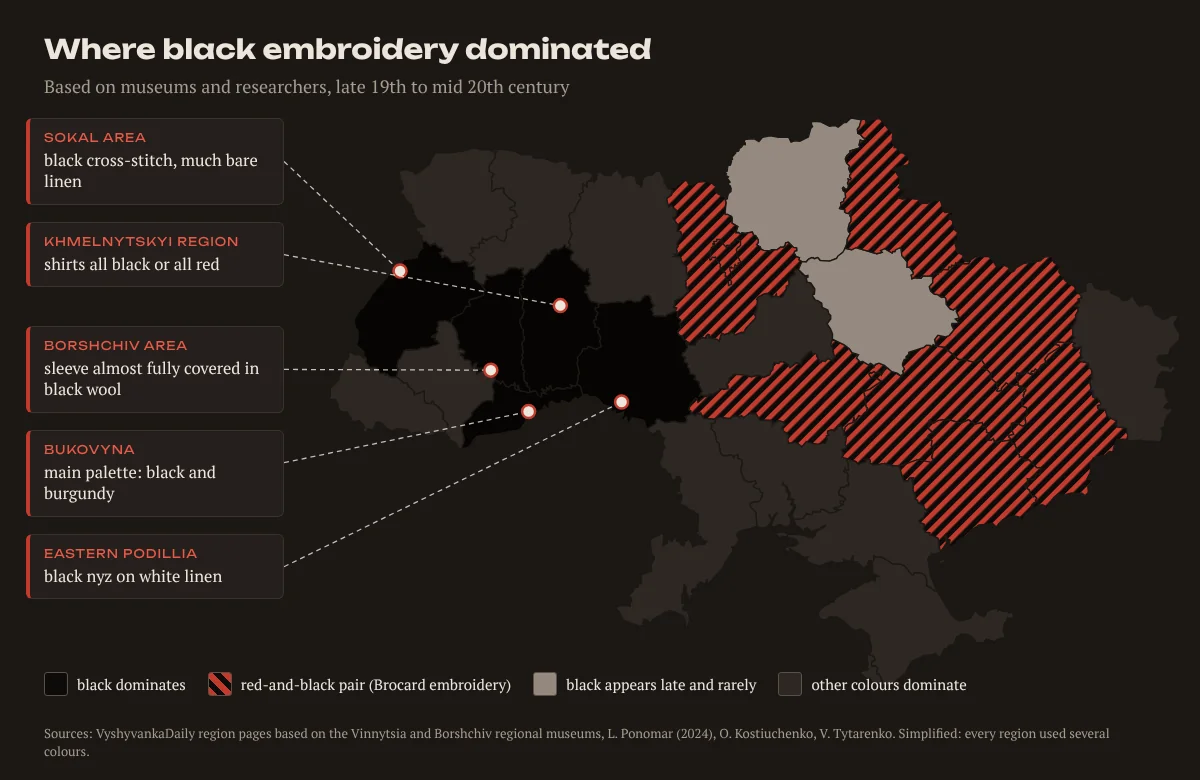
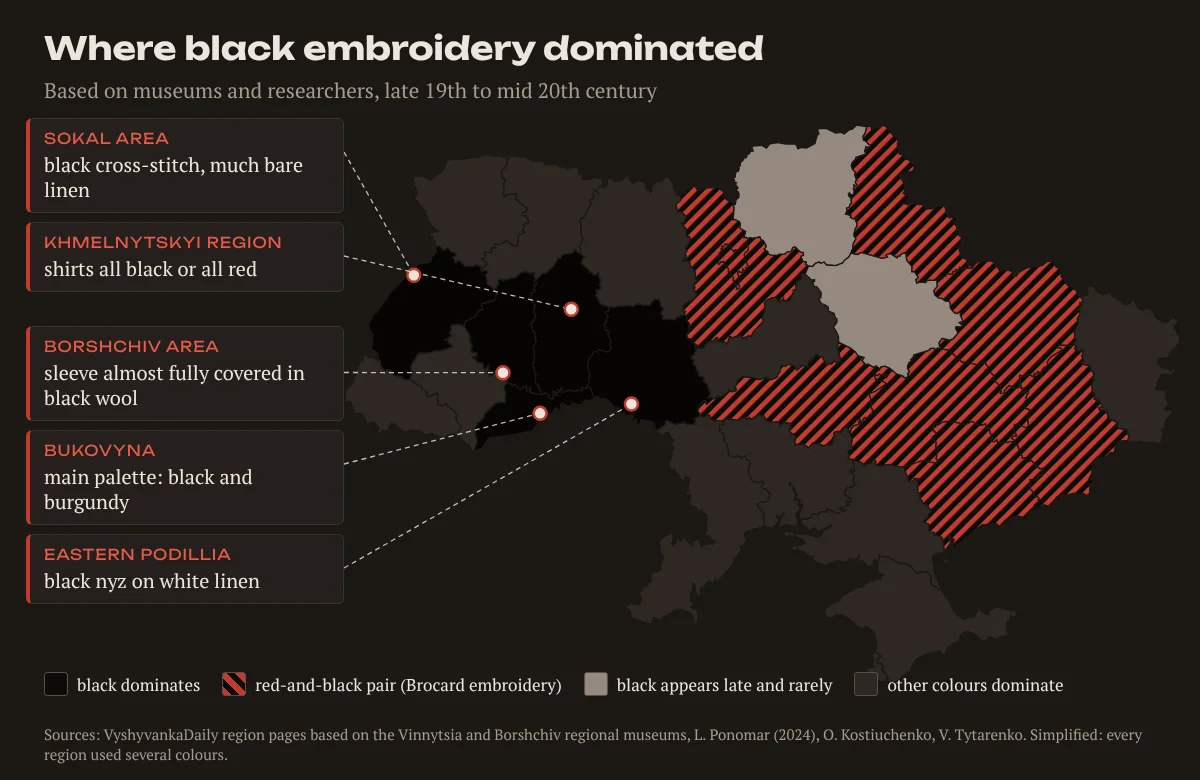
blog, patterns: readable map, plain-text fashion week, lighter collection queries
- black vyshyvanka map: larger labels and legend
- what to wear article: Ukrainian Fashion Week as plain text
- collection, home ribbon and prev/next links no longer load svg_content

diff --git a/apps/patterns/views.py b/apps/patterns/views.py
@@ -85,6 +85,7 @@ def home_view(request):
     ribbon = (
         DailyPattern.objects.filter(date__lte=today, date__gt=today - timedelta(days=RIBBON_DAYS))
         .select_related("region")
+        .defer("svg_content")
         .order_by("-date")
     )
 
@@ -167,9 +168,10 @@ def pattern_detail_view(request, iso_date):
             raise Http404 from None
         return redirect("patterns:region_detail", slug=region.slug)
 
-    previous_pattern = DailyPattern.objects.filter(date__lt=pattern_date).order_by("-date").first()
+    neighbours = DailyPattern.objects.defer("svg_content")
+    previous_pattern = neighbours.filter(date__lt=pattern_date).order_by("-date").first()
     next_pattern = (
-        DailyPattern.objects.filter(date__gt=pattern_date, date__lte=timezone.localdate())
+        neighbours.filter(date__gt=pattern_date, date__lte=timezone.localdate())
         .order_by("date")
         .first()
     )
@@ -229,6 +231,7 @@ def my_collection_view(request):
     saved_patterns = (
         SavedPattern.objects.filter(user=request.user)
         .select_related("pattern", "pattern__region")
+        .defer("pattern__svg_content")
         .order_by("-created_at")
     )
 

diff --git a/apps/blog/tests.py b/apps/blog/tests.py
@@ -558,13 +558,15 @@ class FirstArticleSeoTests(TestCase):
         html = self.client.get(f"/en/blog/{self.post.slug}/").content.decode()
         self.assertIn('<meta name="author" content="Vladyslav Zamotailo">', html)
 
-    def test_only_museum_and_fashion_week_links_are_external(self):
+    def test_only_museum_link_is_external(self):
         import re
 
         for body in (self.post.body, self.post.body_en):
             external = re.findall(r'<a href="(https?://[^"]+)"([^>]*)>', body)
             hosts = {re.sub(r"https?://([^/]+)/.*", r"\1", href) for href, _ in external}
-            self.assertEqual(hosts, {"museum.mincult.gov.ua", "fashionweek.ua"})
+            self.assertEqual(hosts, {"museum.mincult.gov.ua"})
+            # Ukrainian Fashion Week - лише текстом (сторінка показу не відповідає)
+            self.assertIn("Ukrainian Fashion Week", body)
             for _, attrs in external:
                 self.assertIn('rel="noopener"', attrs)
             self.assertNotIn('href="https://www.instagram.com', body)

diff --git a/apps/patterns/tests.py b/apps/patterns/tests.py
@@ -731,6 +731,12 @@ class ListPaginationTests(TestCase):
         self.assertEqual(response.context["total_saved"], 15)
         self.assertEqual(len(self.client.get("/collection/?page=2").context["saved_patterns"]), 3)
 
+    def test_collection_does_not_load_svg_content(self):
+        # SVG картки йде окремим <img>, тож важкий текст із бази не тягнемо
+        self.client.force_login(self.user)
+        saved = self.client.get("/collection/").context["saved_patterns"][0]
+        self.assertIn("svg_content", saved.pattern.get_deferred_fields())
+
     def test_invalid_page_falls_back_gracefully(self):
         response = self.client.get(f"/regions/{self.region.slug}/?page=abc")
         self.assertEqual(response.status_code, 200)
